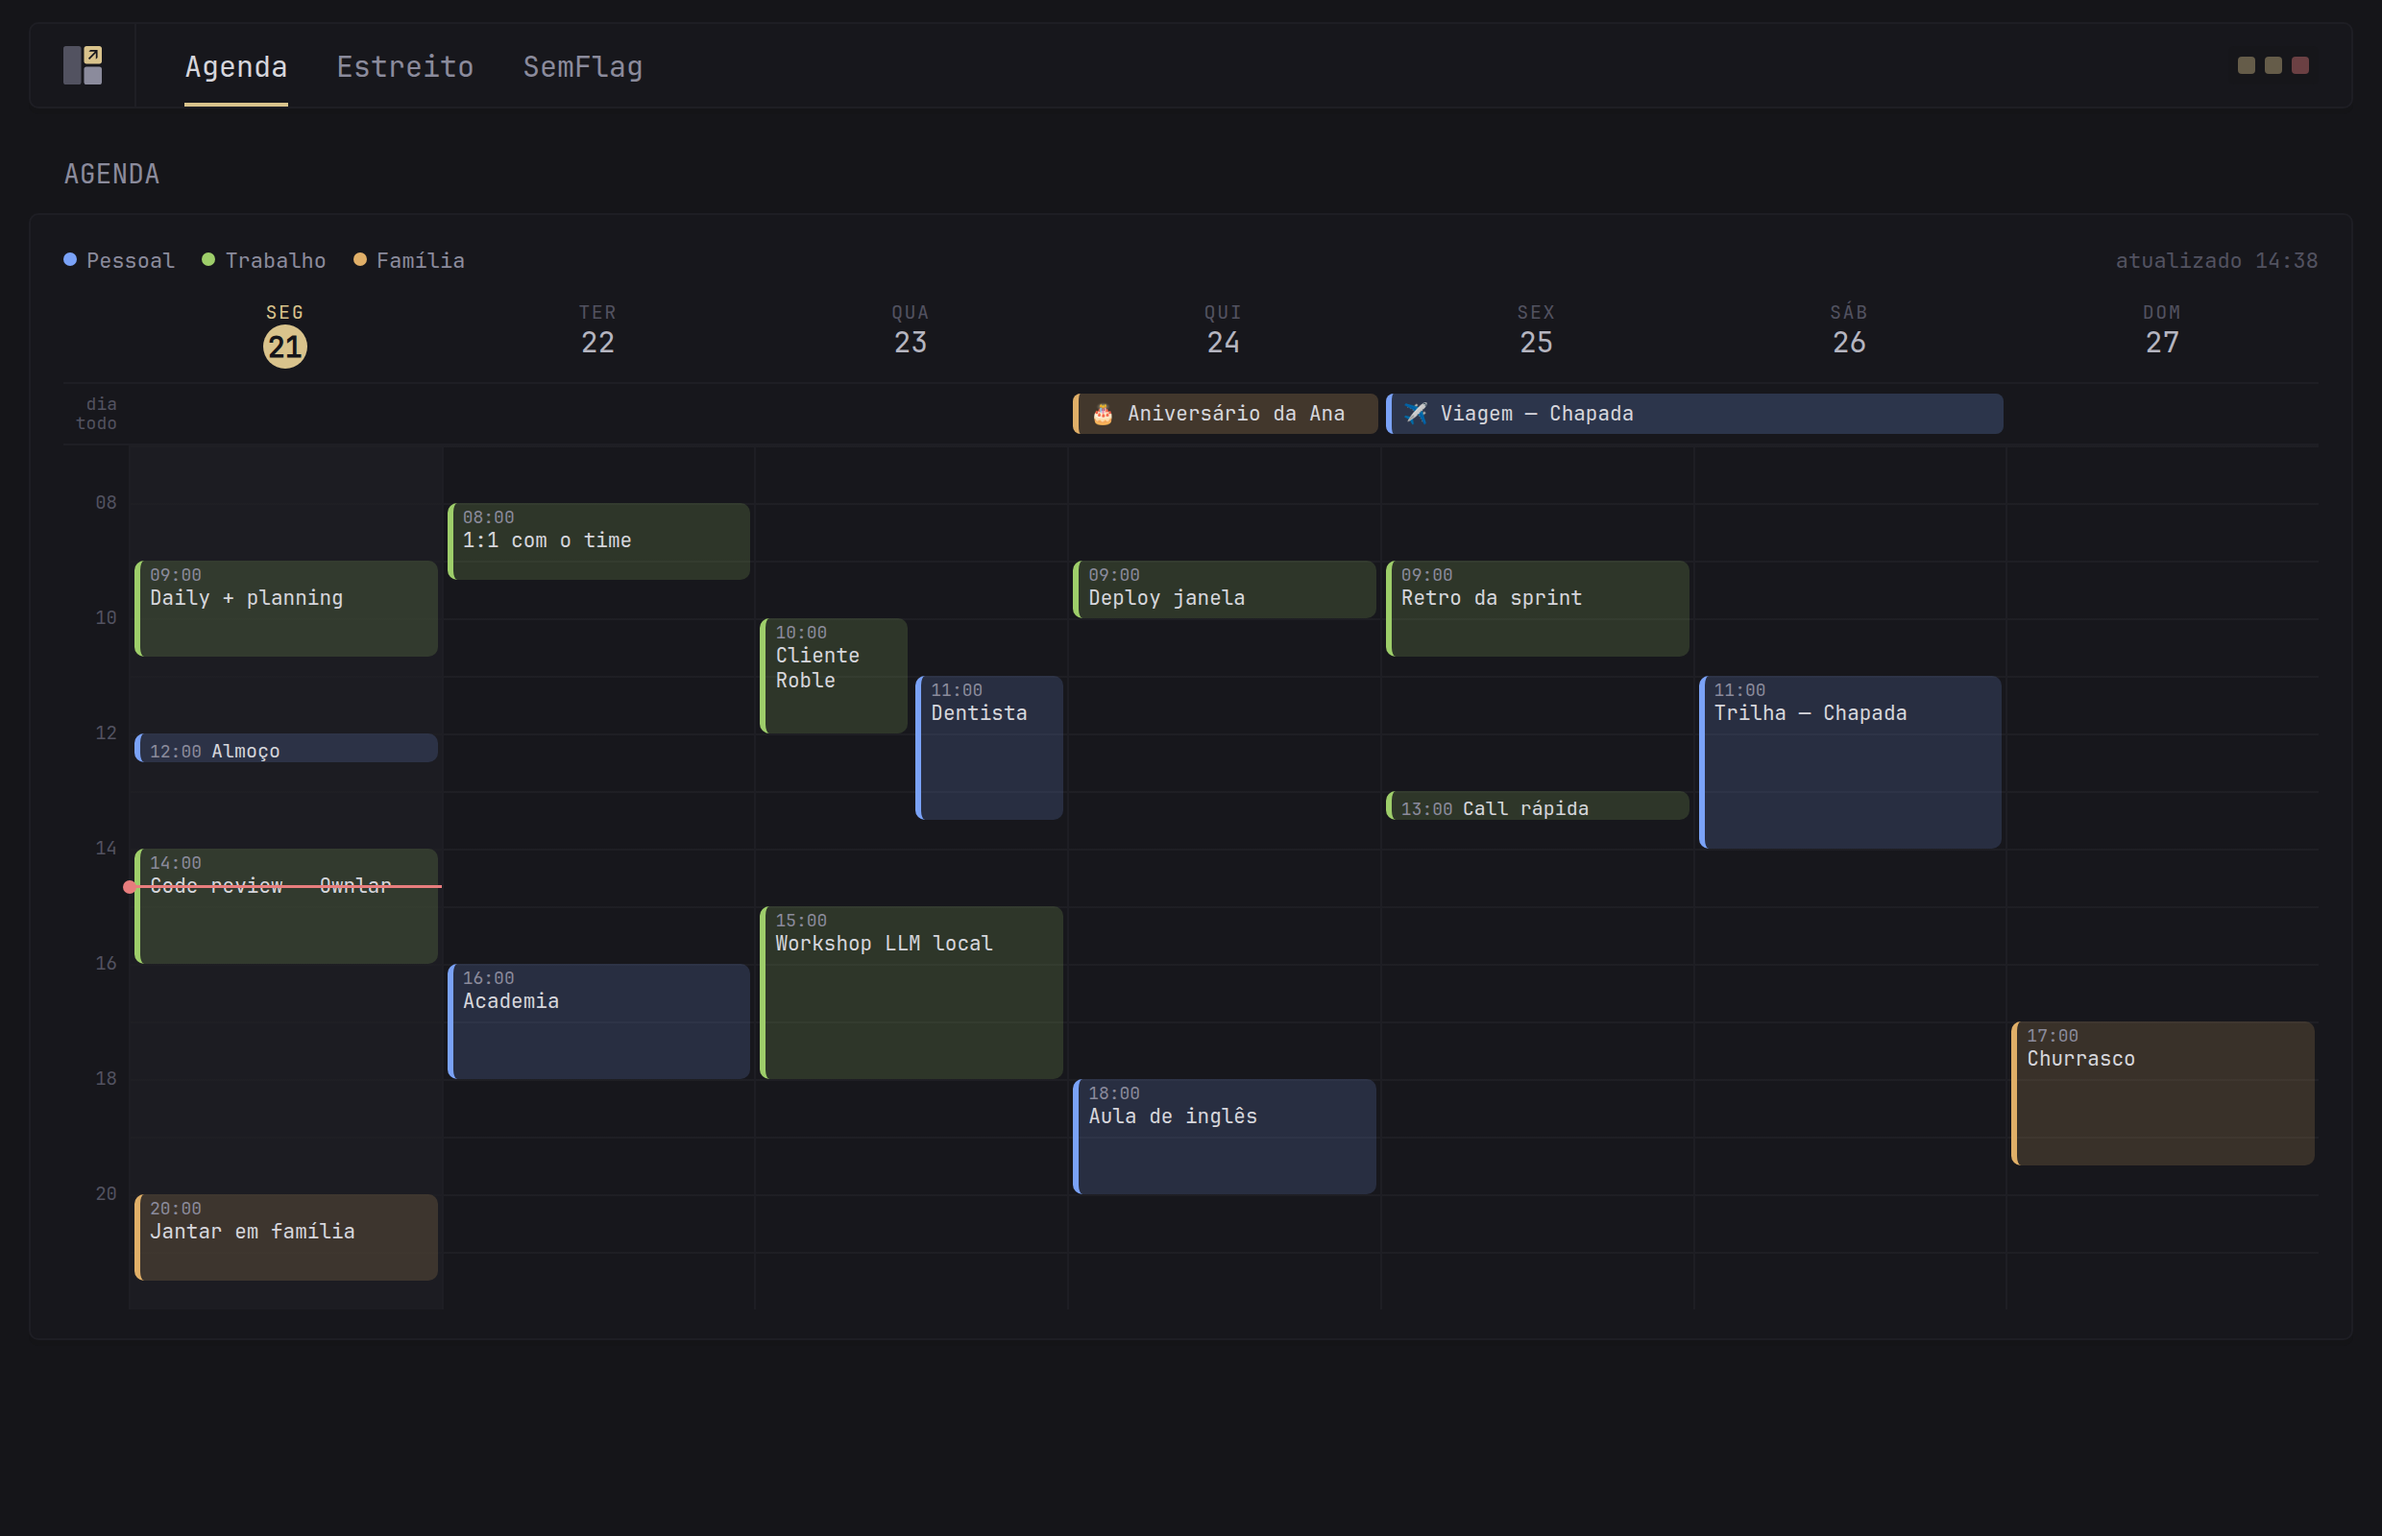
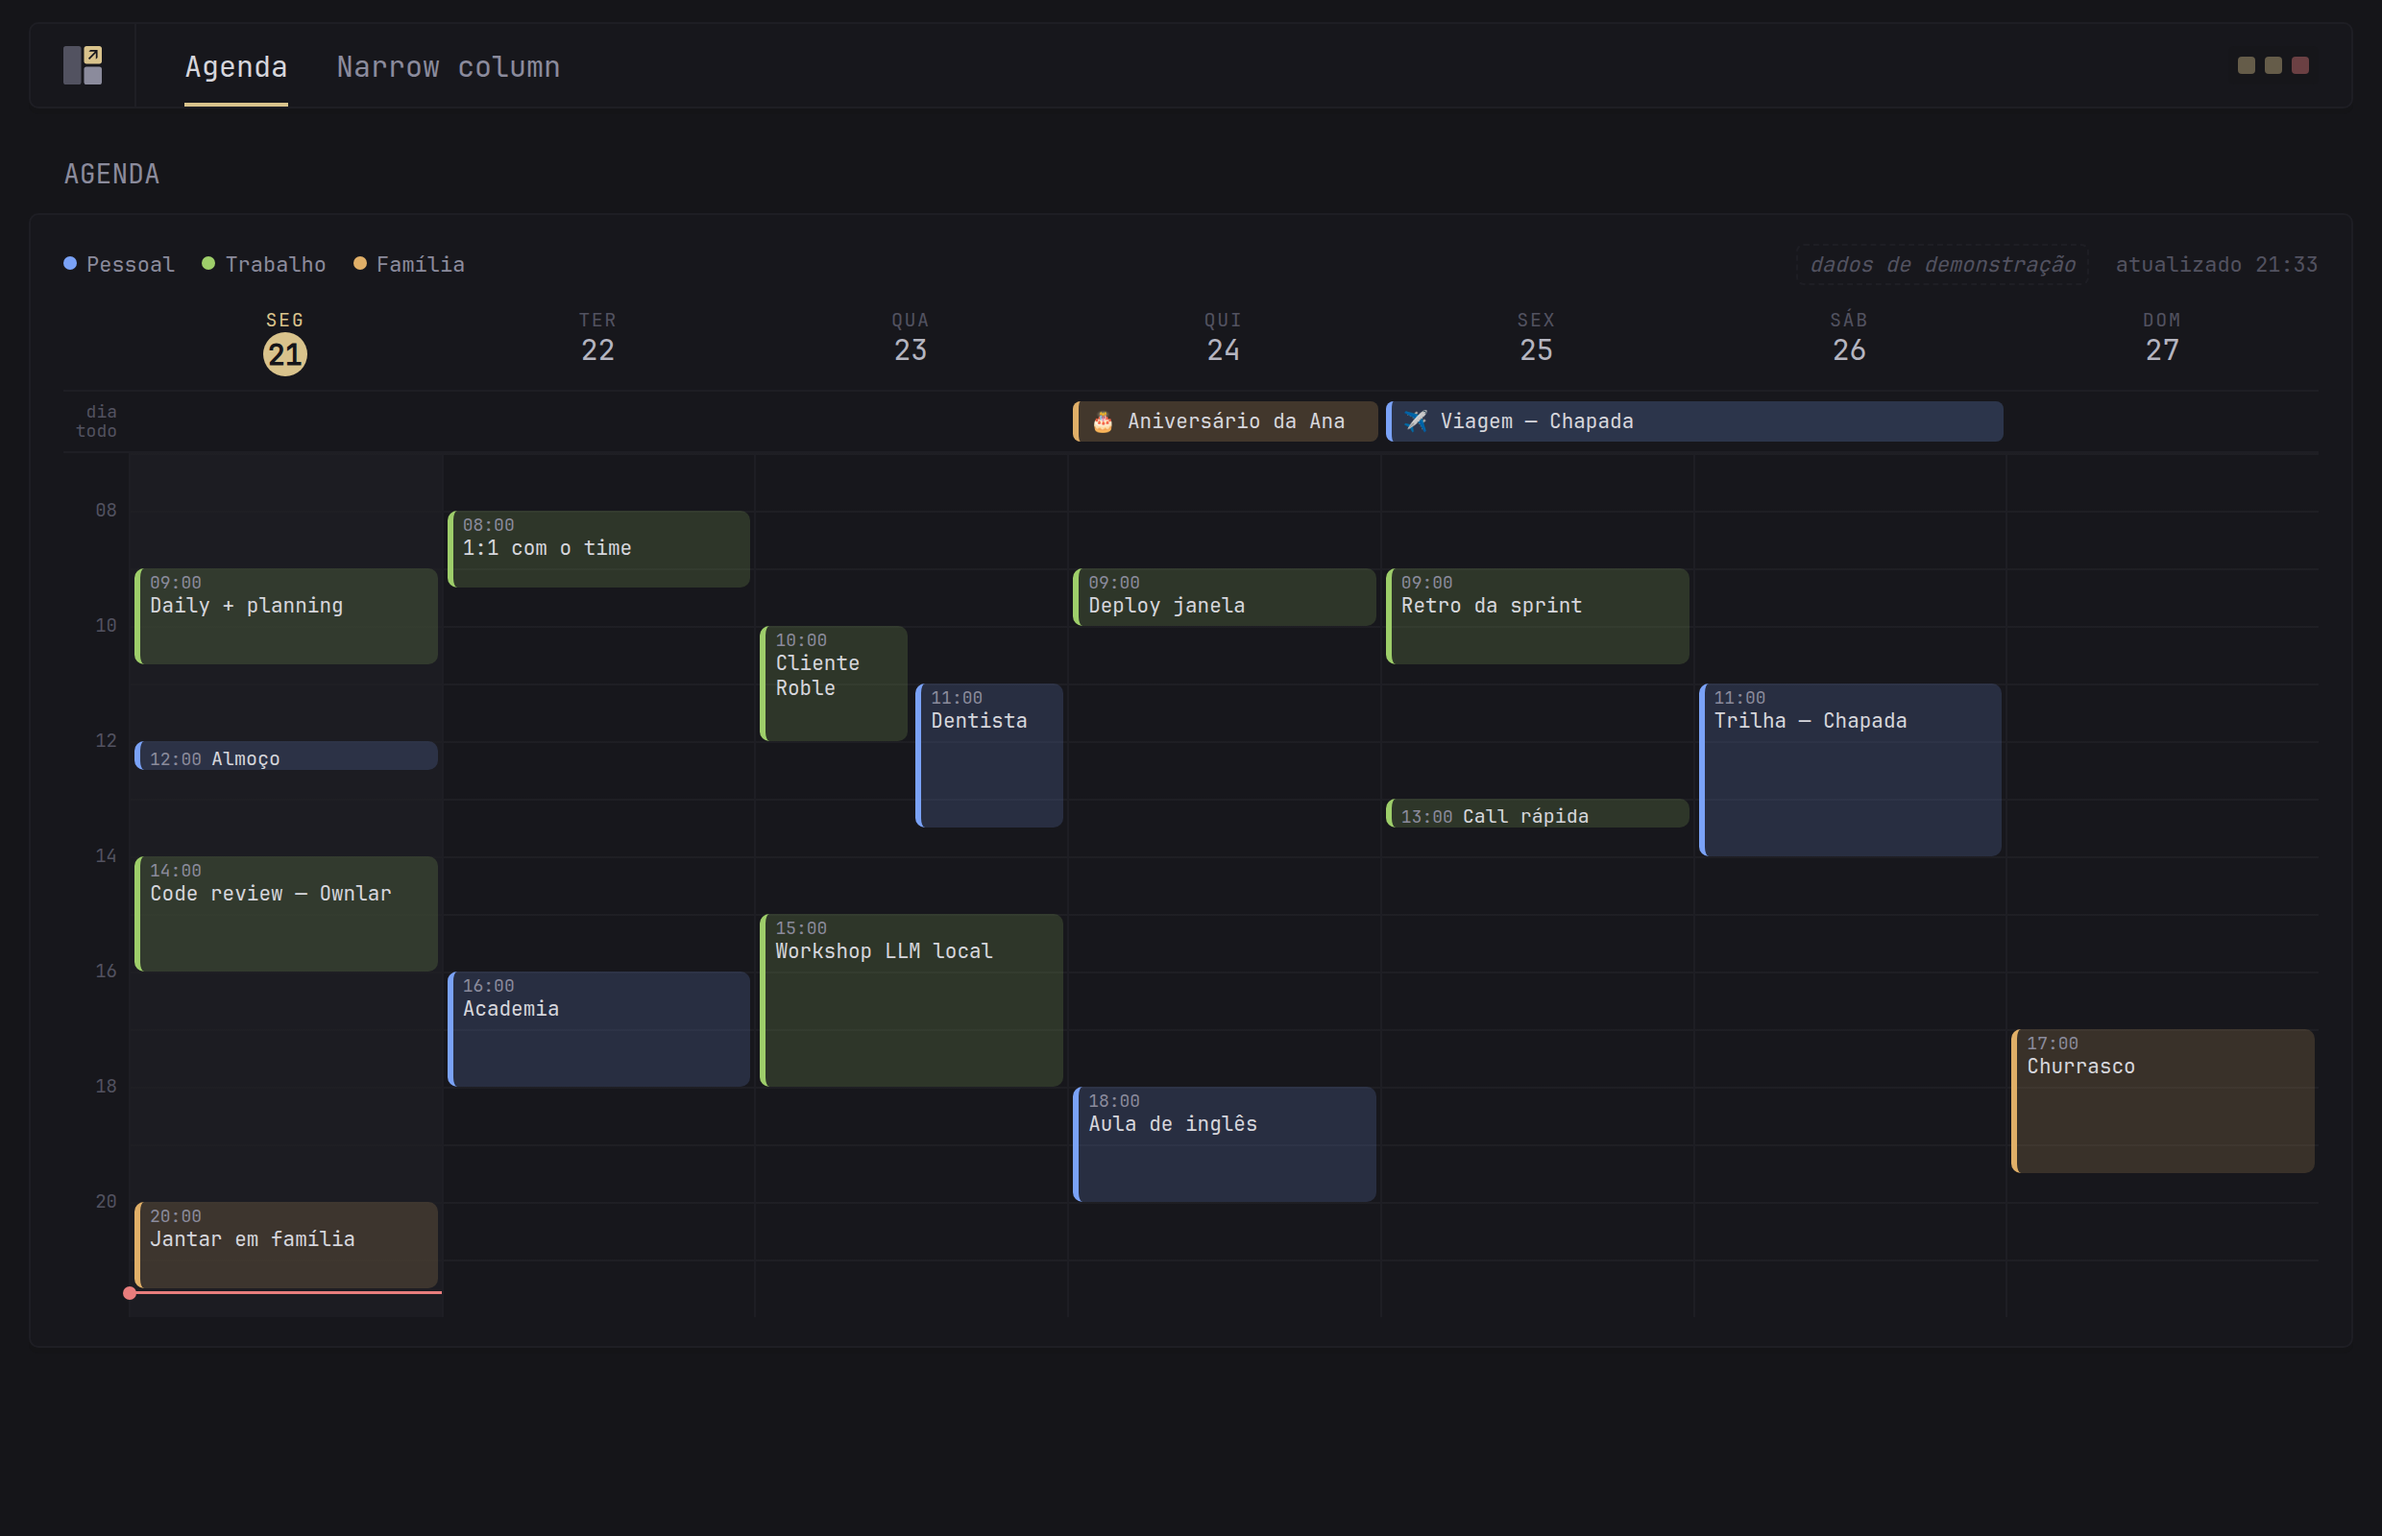
F3: avisos na legenda (demo, reconectar, erros) e CI em actions v7
Legenda ganha nota 'dados de demonstração' enquanto o demo é servido,
'reconectar' ao lado da conta cujo token parou de funcionar e um ponto
vermelho com title= listando os avisos de coleta. Rótulos em pt-BR e en.
Golden e capturas regeneradas; script de capturas deixa os intermediários
fora de docs/.

diff --git a/internal/render/testdata/week.golden.html b/internal/render/testdata/week.golden.html
@@ -11,6 +11,9 @@
 .ag-dot{display:inline-block;width:7px;height:7px;border-radius:50%;margin-right:5px;vertical-align:1px;background:var(--c)}
 .ag-spacer{flex:1}
 .ag-warn b{color:var(--color-negative,#f07178)}
+.ag-warn em{font-style:normal;color:var(--color-negative,#f07178);opacity:.85}
+.ag-demo{font-style:italic;color:var(--color-text-subdue,#6b6d7c);border:1px dashed var(--color-separator,#33343e);border-radius:4px;padding:1px 6px}
+.ag-err{display:inline-block;width:8px;height:8px;border-radius:50%;background:var(--color-negative,#f07178);cursor:help}
 
 .ag-head,.ag-allday,.ag-body{display:grid;grid-template-columns:var(--gutter) repeat(var(--ag-days,7),minmax(0,1fr))}
 .ag-head{border-bottom:1px solid var(--color-separator,#33343e)}
@@ -62,7 +65,7 @@
 }
 </style>
 <div class="ag"><div class="ag-in" style="--h0:7;--h1:22;--ag-days:7">
-<div class="ag-legend"><span><i class="ag-dot" style="--c:#7aa2f7"></i><b>Pessoal</b></span><span><i class="ag-dot" style="--c:#9ece6a"></i><b>Trabalho</b></span><span><i class="ag-dot" style="--c:#e0af68"></i><b>Família</b></span><span class="ag-spacer"></span><span>atualizado 10:40</span></div>
+<div class="ag-legend"><span><i class="ag-dot" style="--c:#7aa2f7"></i><b>Pessoal</b></span><span><i class="ag-dot" style="--c:#9ece6a"></i><b>Trabalho</b></span><span><i class="ag-dot" style="--c:#e0af68"></i><b>Família</b></span><span class="ag-spacer"></span><span class="ag-demo">dados de demonstração</span><span>atualizado 10:40</span></div>
 <div class="ag-head"><div></div><div class="ag-d ag-today"><div class="ag-dow">Seg</div><div class="ag-num">21</div></div><div class="ag-d"><div class="ag-dow">Ter</div><div class="ag-num">22</div></div><div class="ag-d"><div class="ag-dow">Qua</div><div class="ag-num">23</div></div><div class="ag-d"><div class="ag-dow">Qui</div><div class="ag-num">24</div></div><div class="ag-d"><div class="ag-dow">Sex</div><div class="ag-num">25</div></div><div class="ag-d"><div class="ag-dow">Sáb</div><div class="ag-num">26</div></div><div class="ag-d"><div class="ag-dow">Dom</div><div class="ag-num">27</div></div></div>
 <div class="ag-allday" style="grid-template-rows:repeat(1,auto)"><div class="ag-lbl">dia<br>todo</div>
 <a class="ag-allday-ev ag-far" style="--c:#e0af68;--col:5;--span:1;--mspan:1;grid-row:1" title="🎂 Aniversário da Ana

diff --git a/internal/render/week.html b/internal/render/week.html
@@ -1,6 +1,6 @@
 {{define "fragment"}}<style>{{.CSS}}</style>
 <div class="ag"><div class="ag-in" style="--h0:{{.H0}};--h1:{{.H1}};--ag-days:{{len .Days}}">
-<div class="ag-legend">{{range .Legend}}<span{{if .NeedsReconnect}} class="ag-warn"{{end}}><i class="ag-dot" style="--c:{{.Color}}"></i><b>{{.Name}}</b></span>{{end}}<span class="ag-spacer"></span><span>{{.Labels.Updated}} {{.UpdatedAt}}</span></div>
+<div class="ag-legend">{{range .Legend}}<span{{if .NeedsReconnect}} class="ag-warn"{{end}}><i class="ag-dot" style="--c:{{.Color}}"></i><b>{{.Name}}</b>{{if .NeedsReconnect}} <em>{{$.Labels.Reconnect}}</em>{{end}}</span>{{end}}<span class="ag-spacer"></span>{{if .Demo}}<span class="ag-demo">{{.Labels.Demo}}</span>{{end}}{{if .Errors}}<span class="ag-err" title="{{.ErrorsTip}}"></span>{{end}}<span>{{.Labels.Updated}} {{.UpdatedAt}}</span></div>
 <div class="ag-head"><div></div>{{range .Days}}<div class="ag-d{{if .Today}} ag-today{{end}}"><div class="ag-dow">{{.Dow}}</div><div class="ag-num">{{.Num}}</div></div>{{end}}</div>
 <div class="ag-allday" style="grid-template-rows:repeat({{.AllDayRows}},auto)"><div class="ag-lbl">{{range $i, $l := lines .Labels.AllDay}}{{if $i}}<br>{{end}}{{$l}}{{end}}</div>{{range .AllDay}}
 <a class="ag-allday-ev{{if .Far}} ag-far{{end}}" style="--c:{{.Color}};--col:{{.Col}};--span:{{.Span}};--mspan:{{.MobileSpan}};grid-row:{{.Row}}" title="{{.Tip}}"{{if .URL}} href="{{.URL}}" target="_blank" rel="noopener"{{end}}>{{.Title}}</a>{{end}}</div>

diff --git a/internal/render/week.css b/internal/render/week.css
@@ -11,6 +11,9 @@
 .ag-dot{display:inline-block;width:7px;height:7px;border-radius:50%;margin-right:5px;vertical-align:1px;background:var(--c)}
 .ag-spacer{flex:1}
 .ag-warn b{color:var(--color-negative,#f07178)}
+.ag-warn em{font-style:normal;color:var(--color-negative,#f07178);opacity:.85}
+.ag-demo{font-style:italic;color:var(--color-text-subdue,#6b6d7c);border:1px dashed var(--color-separator,#33343e);border-radius:4px;padding:1px 6px}
+.ag-err{display:inline-block;width:8px;height:8px;border-radius:50%;background:var(--color-negative,#f07178);cursor:help}
 
 .ag-head,.ag-allday,.ag-body{display:grid;grid-template-columns:var(--gutter) repeat(var(--ag-days,7),minmax(0,1fr))}
 .ag-head{border-bottom:1px solid var(--color-separator,#33343e)}

diff --git a/internal/agenda/layout.go b/internal/agenda/layout.go
@@ -13,18 +13,23 @@ import (
 
 // Labels are the UI strings, chosen by config `language`.
 type Labels struct {
-	Title    string
-	Weekdays [7]string // Sunday first, like time.Weekday
-	AllDay   string
-	Updated  string
-	Rest     string // header of the mobile list, e.g. "%s — %s"
+	Title     string
+	Weekdays  [7]string // Sunday first, like time.Weekday
+	AllDay    string
+	Updated   string
+	Rest      string // header of the mobile list, e.g. "%s — %s"
+	Demo      string // legend note while fictitious data is served
+	Reconnect string // legend note next to an account whose token stopped working
+	Errors    string // title of the error indicator, "%d" = count
 }
 
 var labelSets = map[string]Labels{
 	"pt-BR": {Title: "Agenda", Weekdays: [7]string{"Dom", "Seg", "Ter", "Qua", "Qui", "Sex", "Sáb"},
-		AllDay: "dia\ntodo", Updated: "atualizado", Rest: "%s — %s"},
+		AllDay: "dia\ntodo", Updated: "atualizado", Rest: "%s — %s",
+		Demo: "dados de demonstração", Reconnect: "reconectar", Errors: "%d aviso(s):"},
 	"en": {Title: "Calendar", Weekdays: [7]string{"Sun", "Mon", "Tue", "Wed", "Thu", "Fri", "Sat"},
-		AllDay: "all\nday", Updated: "updated", Rest: "%s — %s"},
+		AllDay: "all\nday", Updated: "updated", Rest: "%s — %s",
+		Demo: "demo data", Reconnect: "reconnect", Errors: "%d warning(s):"},
 }
 
 // LabelsFor returns the label set for a language, falling back to English.
@@ -60,6 +65,8 @@ type View struct {
 	Rest       []RestItem
 	RestTitle  string
 	Errors     []string
+	ErrorsTip  string // Errors joined for a title= attribute
+	Demo       bool
 	Labels     Labels
 }
 
@@ -133,7 +140,10 @@ func Layout(res Result, opt LayoutOptions) View {
 		colorOf[a.ID] = a.Color
 	}
 
-	v := View{Title: lab.Title, Labels: lab, Errors: res.Errors, UpdatedAt: res.GeneratedAt.In(loc).Format("15:04")}
+	v := View{Title: lab.Title, Labels: lab, Errors: res.Errors, Demo: res.Demo, UpdatedAt: res.GeneratedAt.In(loc).Format("15:04")}
+	if len(res.Errors) > 0 {
+		v.ErrorsTip = fmt.Sprintf(lab.Errors, len(res.Errors)) + "\n" + strings.Join(res.Errors, "\n")
+	}
 	for _, a := range res.Accounts {
 		v.Legend = append(v.Legend, LegendItem{Name: a.Name, Color: a.Color, NeedsReconnect: a.NeedsReconnect})
 	}

diff --git a/internal/render/render_test.go b/internal/render/render_test.go
@@ -126,6 +126,40 @@ func TestEscaping(t *testing.T) {
 	}
 }
 
+func TestLegendNotes(t *testing.T) {
+	v := demoView(t)
+	v.Demo = true
+	v.Errors = []string{`trabalho (x@y): needs reconnect`, `pessoal / "Projetos": http 500`}
+	v.ErrorsTip = "2 aviso(s):\n" + strings.Join(v.Errors, "\n")
+	v.Legend[1].NeedsReconnect = true
+	var buf bytes.Buffer
+	if err := Fragment(&buf, v); err != nil {
+		t.Fatal(err)
+	}
+	out := buf.String()
+	for _, want := range []string{`class="ag-demo">dados de demonstração<`, `class="ag-warn"`, `<em>reconectar</em>`, `class="ag-err" title="2 aviso(s):`, `&#34;Projetos&#34;`} {
+		if !strings.Contains(out, want) {
+			t.Errorf("missing %q", want)
+		}
+	}
+	if strings.Contains(out, `"Projetos"`) {
+		t.Error("error text must be escaped inside title=")
+	}
+	// none of it when everything is fine (the demo source itself is flagged demo)
+	buf.Reset()
+	clean := demoView(t)
+	clean.Demo = false
+	Fragment(&buf, clean)
+	if strings.Contains(buf.String(), `class="ag-demo"`) || strings.Contains(buf.String(), `class="ag-err"`) || strings.Contains(buf.String(), `class="ag-warn"`) {
+		t.Error("notes must be absent on a clean, non-demo view")
+	}
+	buf.Reset()
+	Fragment(&buf, demoView(t))
+	if !strings.Contains(buf.String(), `class="ag-demo"`) {
+		t.Error("demo source view must carry the demo note")
+	}
+}
+
 func TestPage(t *testing.T) {
 	for _, th := range ThemeNames() {
 		var buf bytes.Buffer
